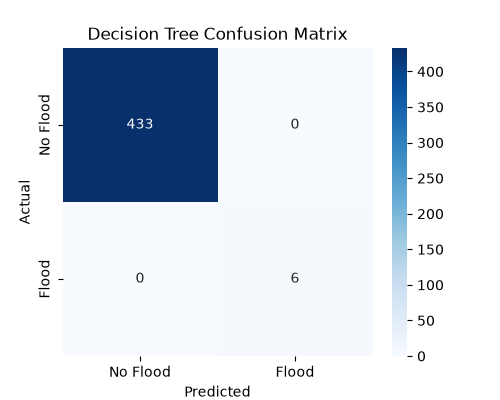
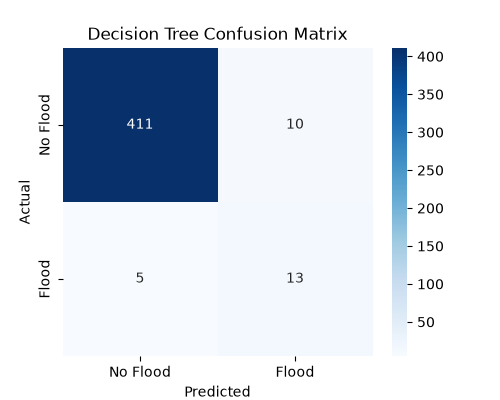
Added model performance report

diff --git a/src/train_model.py b/src/train_model.py
@@ -3,6 +3,7 @@ import matplotlib.pyplot as plt
 import seaborn as sns
 
 from sklearn.model_selection import train_test_split
+from sklearn.model_selection import cross_val_score
 from sklearn.tree import DecisionTreeClassifier
 from sklearn.ensemble import RandomForestClassifier
 from sklearn.linear_model import LogisticRegression
@@ -10,10 +11,16 @@ from sklearn.metrics import (
     accuracy_score,
     confusion_matrix,
     classification_report,
+    precision_score,
+    recall_score,
+    f1_score,
 )
 
 # Load dataset
 df = pd.read_csv("data/processed/flood_dataset.csv")
+
+print("\nDataset Shape:", df.shape)
+print(df["Flood_Risk"].value_counts())
 
 # Features
 X = df[["Temperature_C", "Rainfall_mm", "Humidity_%"]]
@@ -41,6 +48,7 @@ print("=" * 50)
 print("Flood Prediction Model Comparison")
 print("=" * 50)
 results = {}
+performance = []
 
 for name, model in models.items():
     model.fit(X_train, y_train)
@@ -50,6 +58,14 @@ for name, model in models.items():
     cm = confusion_matrix(y_test, y_pred)
 
     results[name] = accuracy
+
+    performance.append({
+    "Model": name,
+    "Accuracy": accuracy,
+    "Precision": precision_score(y_test, y_pred),
+    "Recall": recall_score(y_test, y_pred),
+    "F1-Score": f1_score(y_test, y_pred),
+})
 
     print(f"\n{name}")
     print("-" * 30)
@@ -102,6 +118,17 @@ plt.tight_layout()
 plt.savefig("data/processed/feature_importance.png")
 plt.close()
 
+print("\nCross Validation Results")
+print("-" * 30)
+
+for name, model in models.items():
+    scores = cross_val_score(model, X, y, cv=5)
+
+    print(f"{name}")
+    print(f"Scores : {scores}")
+    print(f"Mean Accuracy : {scores.mean():.4f}")
+    print(f"Std Dev : {scores.std():.4f}\n")
+
 
 
 print("=" * 50)
@@ -110,3 +137,13 @@ best_model = max(results, key=results.get)
 
 print(f"Best Model : {best_model}")
 print(f"Accuracy   : {results[best_model]:.4f}")
+
+# Save model performance to CSV
+performance_df = pd.DataFrame(performance)
+
+performance_df.to_csv(
+    "results/model_performance.csv",
+    index=False
+)
+
+print("\nModel performance saved to results/model_performance.csv")

diff --git a/src/feature_engineering.py b/src/feature_engineering.py
@@ -1,5 +1,6 @@
 import os
 import pandas as pd
+import numpy as np
 
 # Create processed folder
 os.makedirs("data/processed", exist_ok=True)
@@ -7,12 +8,20 @@ os.makedirs("data/processed", exist_ok=True)
 # Load dataset
 df = pd.read_csv("data/raw/bangladesh_weather.csv")
 
-# Flood Risk Label
-# Rule:
-# Rainfall >= 50 mm/day -> Flood Risk = 1
-# Otherwise -> Flood Risk = 0
+# Flood Risk Label (Research-Oriented)
 
-df["Flood_Risk"] = (df["Rainfall_mm"] >= 50).astype(int)
+score = (
+    (df["Rainfall_mm"] * 0.6)
+    + (df["Humidity_%"] * 0.3)
+    - (df["Temperature_C"] * 0.2)
+)
+
+# Add random noise to make prediction more realistic
+noise = np.random.normal(0, 5, len(df))
+
+score = score + noise
+
+df["Flood_Risk"] = (score >= 40).astype(int)
 
 # Save new dataset
 output = "data/processed/flood_dataset.csv"
